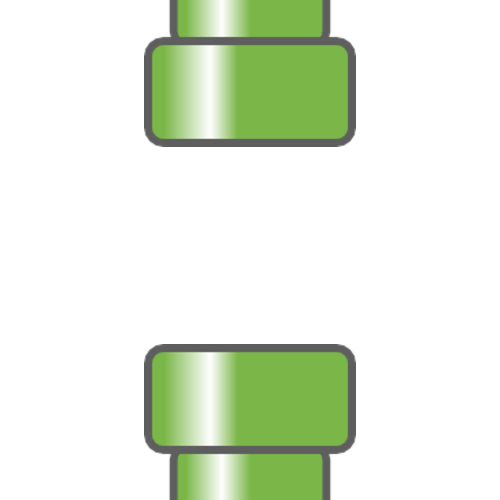
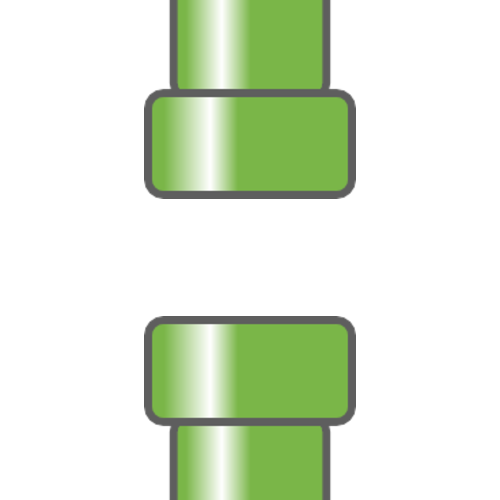
fixed menu

diff --git a/menu.py b/menu.py
@@ -1,5 +1,6 @@
 import pygame
 import sys
+import math
 class Menu:
     def __init__(self,screen,clock,game=False):
         self.menu=pygame.image.load("img/menu.png").convert_alpha()
@@ -7,20 +8,40 @@ class Menu:
         self.menu_rect=self.menu.get_rect(center=(2560/2,700))
         self.icons=[
             [0],
-            [0],
             [0]
             ]
         self.iconsr=[
             [0],
-            [0],
             [0]
         ]
         for i in range(3):
-            self.icons[0].append(pygame.image.load("img/micons/icon1.png").convert_alpha())#"img/micons/icon{i}.png" FIX
+            self.icons[0].append(pygame.image.load(f"img/micons/icon{i+1}.png").convert_alpha())
             self.icons[0][-1]=pygame.transform.scale(self.icons[0][-1],(50,50))
-            self.iconsr[0].append(self.icons.get_rect(center=(0,0)))
+            self.iconsr[0].append(self.icons[0][-1].get_rect(center=((2560/2+((i)*70)-100),(1400/2-200))))
+        for i in range(3):
+            self.icons[1].append(pygame.font.SysFont(None,150).render(str(i+1),True,(255,255,255)))
+            self.icons[1][-1]=pygame.transform.scale(self.icons[1][-1],(50,50))
+            self.iconsr[1].append(self.icons[1][-1].get_rect(center=((2560/2+((i)*70)-100),(1400/2-100))))
         self.resizeall(screen)
         self.mainloop(screen,clock,game)
+
+    def get_gap(self):
+        if self.icons[0][0]==0:
+            gap=400
+        if self.icons[0][0]==1:
+            gap=300
+        if self.icons[0][0]==2:
+            gap=500
+        return gap
+    def get_speed(self):
+        if self.icons[1][0]==0:
+            speed=1
+        if self.icons[1][0]==1:
+            speed=1.5
+        if self.icons[1][0]==2:
+            speed=0.75
+        return speed
+    
     def resizeall(self,screen):
         wdh=screen.get_width()
         hgt=screen.get_height()
@@ -44,12 +65,16 @@ class Menu:
         self.menu=pygame.image.load("img/menu.png").convert_alpha()
         self.menu=pygame.transform.scale(self.menu,(wdh/2560*500,hgt/1400*500))
         self.menu_rect=self.menu.get_rect(center=(2560/2,700))
-        for i in self.icons:
+        for w,i in enumerate(self.icons):
             for t,icon in enumerate(i):
                 if t!=0:
-                    i[t]=pygame.image.load("img/micons/icon1.png").convert_alpha()#"img/micons/icon{i}.png" FIX
-                    i[t]=pygame.transform.scale(i[t],(wdh/2560*50,hgt/1400*50))
-                    self.iconsr[t]=self.icons.get_rect(center=(0,0))#(x+((t-i[0])*70)-100,y+(z*100)-200)
+                    if w==0:
+                        i[t]=pygame.image.load(f"img/micons/icon{t}.png").convert_alpha()
+                        i[t]=pygame.transform.scale(i[t],(wdh/2560*50,hgt/1400*50))
+                    elif w==1:
+                        i[t]=pygame.font.SysFont(None,150).render(str(t+1),True,(255,255,255))
+                        i[t]=pygame.transform.scale(i[t],(wdh/2560*50,hgt/1400*50))
+    
     
 
     def renderall(self,screen):
@@ -61,9 +86,22 @@ class Menu:
         for z,i in enumerate(self.icons):
             for t,icon in enumerate(i):
                 if t!=0:
-                    screen.blit(icon,)
+                    screen.blit(icon,(self.iconsr[z][t].x*(self.wdh/2560)+self.x_offset,self.iconsr[z][t].y*(self.hgt/1400)+self.y_offset))
     
-
+    def animate(self):
+        for w,i in enumerate(self.iconsr):
+            if i[i[0]+1].centerx!=1280:
+                distance=abs(1280-i[i[0]+1].centerx)
+                if i[i[0]+1].centerx<1279:
+                    for t,icon in enumerate(i):
+                        if t!=0:
+                            icon.centerx+=math.floor((distance)**0.7/5)+1
+                            icon.centerx=round(icon.centerx,1)
+                elif i[i[0]+1].centerx>1281:
+                    for t,icon in enumerate(i):
+                        if t!=0:
+                            icon.centerx-=math.floor((distance)**0.7/5)+1
+                            icon.centerx=round(icon.centerx,1)
     def mainloop(self,screen,clock,game):
         exitmenu=False
         while not exitmenu:
@@ -73,24 +111,26 @@ class Menu:
                     pygame.quit()
                     sys.exit()
                 if event.type==pygame.MOUSEBUTTONUP:
-                    for i in self.icons:
+                    for w,i in enumerate(self.iconsr):
                         for t,icon in enumerate(i):
                             if t!=0:
-                                if icon.get_rect().collidepoint(pygame.mouse.get_pos()):
+                                if icon.collidepoint(pygame.mouse.get_pos()):
                                     i[0]=t-1
+                                    self.icons[w][0]=t-1
                                     clickedicon=True
-                                    print("clicked")
-                                else:
-                                    print(icon.get_rect().x,icon.get_rect().y)
-                                    print(icon.x,icon.y)
+                                    print(i[0])
                     if self.menu_rect.collidepoint(pygame.mouse.get_pos()) and not clickedicon:
                         exitmenu=True
                 if event.type==pygame.VIDEORESIZE:
                     self.resizeall(screen)
                     if game!=False:
                         game.resizeall(screen)
+            
+            self.animate()
+            
             if game!=False:
                 game.renderall(screen)
+            
             self.renderall(screen)
             
             pygame.display.update()

diff --git a/game.py b/game.py
@@ -19,16 +19,21 @@ class Game:
         self.side_burn=pygame.image.load("img/side_burn.png").convert_alpha()
         self.side_burn=pygame.transform.scale(self.side_burn,(1000,1000))
         self.pipes=[]
+
+        self.gap=menu.get_gap()
+        self.speed=menu.get_speed()
+
         self.x_offset=0
         self.y_offset=0
         self.SPAWNPIPE = pygame.USEREVENT
-        pygame.time.set_timer(self.SPAWNPIPE, int(2200.0))
+        pygame.time.set_timer(self.SPAWNPIPE, int(2200/self.speed))
         self.score=0
         self.font = pygame.font.SysFont(None,48)
         self.score_surface=self.font.render(str(int(self.score)),True,(255,255,255))
         self.score_rect= self.score_surface.get_rect(center=(2560/2,75))
         
-        self.gap=500
+        
+
         self.lastpipe=0
 
         self.resizeall(screen)
@@ -108,6 +113,7 @@ class Game:
         self.pipes[-1].resize(self.x_offset,self.y_offset,self.wdh,self.hgt)
         
     def mainloop(self,screen,clock):
+        ticked=False
         while True:
             for event in pygame.event.get():
                 if event.type==pygame.QUIT:
@@ -137,13 +143,21 @@ class Game:
                 if pipe.returnscore():
                     self.score+=1
                     self.score_surface=self.font.render(str(int(self.score)),True,(255,255,255))
-                if pipe.update():
+                pipe.update(self.speed)
+                    
+            for pipe in self.pipes:
+                if pipe.check():
                     self.pipes.remove(pipe)
                     del pipe
+
                 
             self.renderall(screen)
             if self.bird.check_pipe_collide(self.pipes):
                 break
-            pygame.display.update()
-            clock.tick(60.0)
+            
+            clock.tick(60)
+            if ticked:
+                pygame.display.update()
+                ticked=False
+            else: ticked=True
             

diff --git a/pipe.py b/pipe.py
@@ -12,14 +12,16 @@ class Pipe:
             self.pipe_rect.y-=self.pipe_size[1]
         self.scored=False
         self.top=top
-    def update(self):
-        self.pipe_rect.centerx-=8
+    def update(self,speed):
+        self.pipe_rect.centerx-=8*speed
+        
+    def check(self):
         if self.pipe_rect.centerx<-140:
             return True
         return False
 
     def render(self,screen):
-        screen.blit(self.pipe, (self.pipe_rect.x*self.wdh+self.x_offset,self.pipe_rect.y*self.hgt+self.y_offset))
+        screen.blit(self.pipe, (round(self.pipe_rect.x*self.wdh+self.x_offset,2),round(self.pipe_rect.y*self.hgt+self.y_offset,2)))
 
     def resize(self,x_offset,y_offset,wdh,hgt):
         self.x_offset=x_offset

diff --git a/main.py b/main.py
@@ -4,7 +4,7 @@ from menu import Menu
 from game import Game
 pygame.init()
 clock=pygame.time.Clock()   
-screen=pygame.display.set_mode((2560, 1400), pygame.RESIZABLE)
+screen=pygame.display.set_mode((2560, 1400), flags=pygame.RESIZABLE ,vsync=1)
 menu=Menu(screen,clock)
 game=Game(screen,clock,menu)
 while True:
